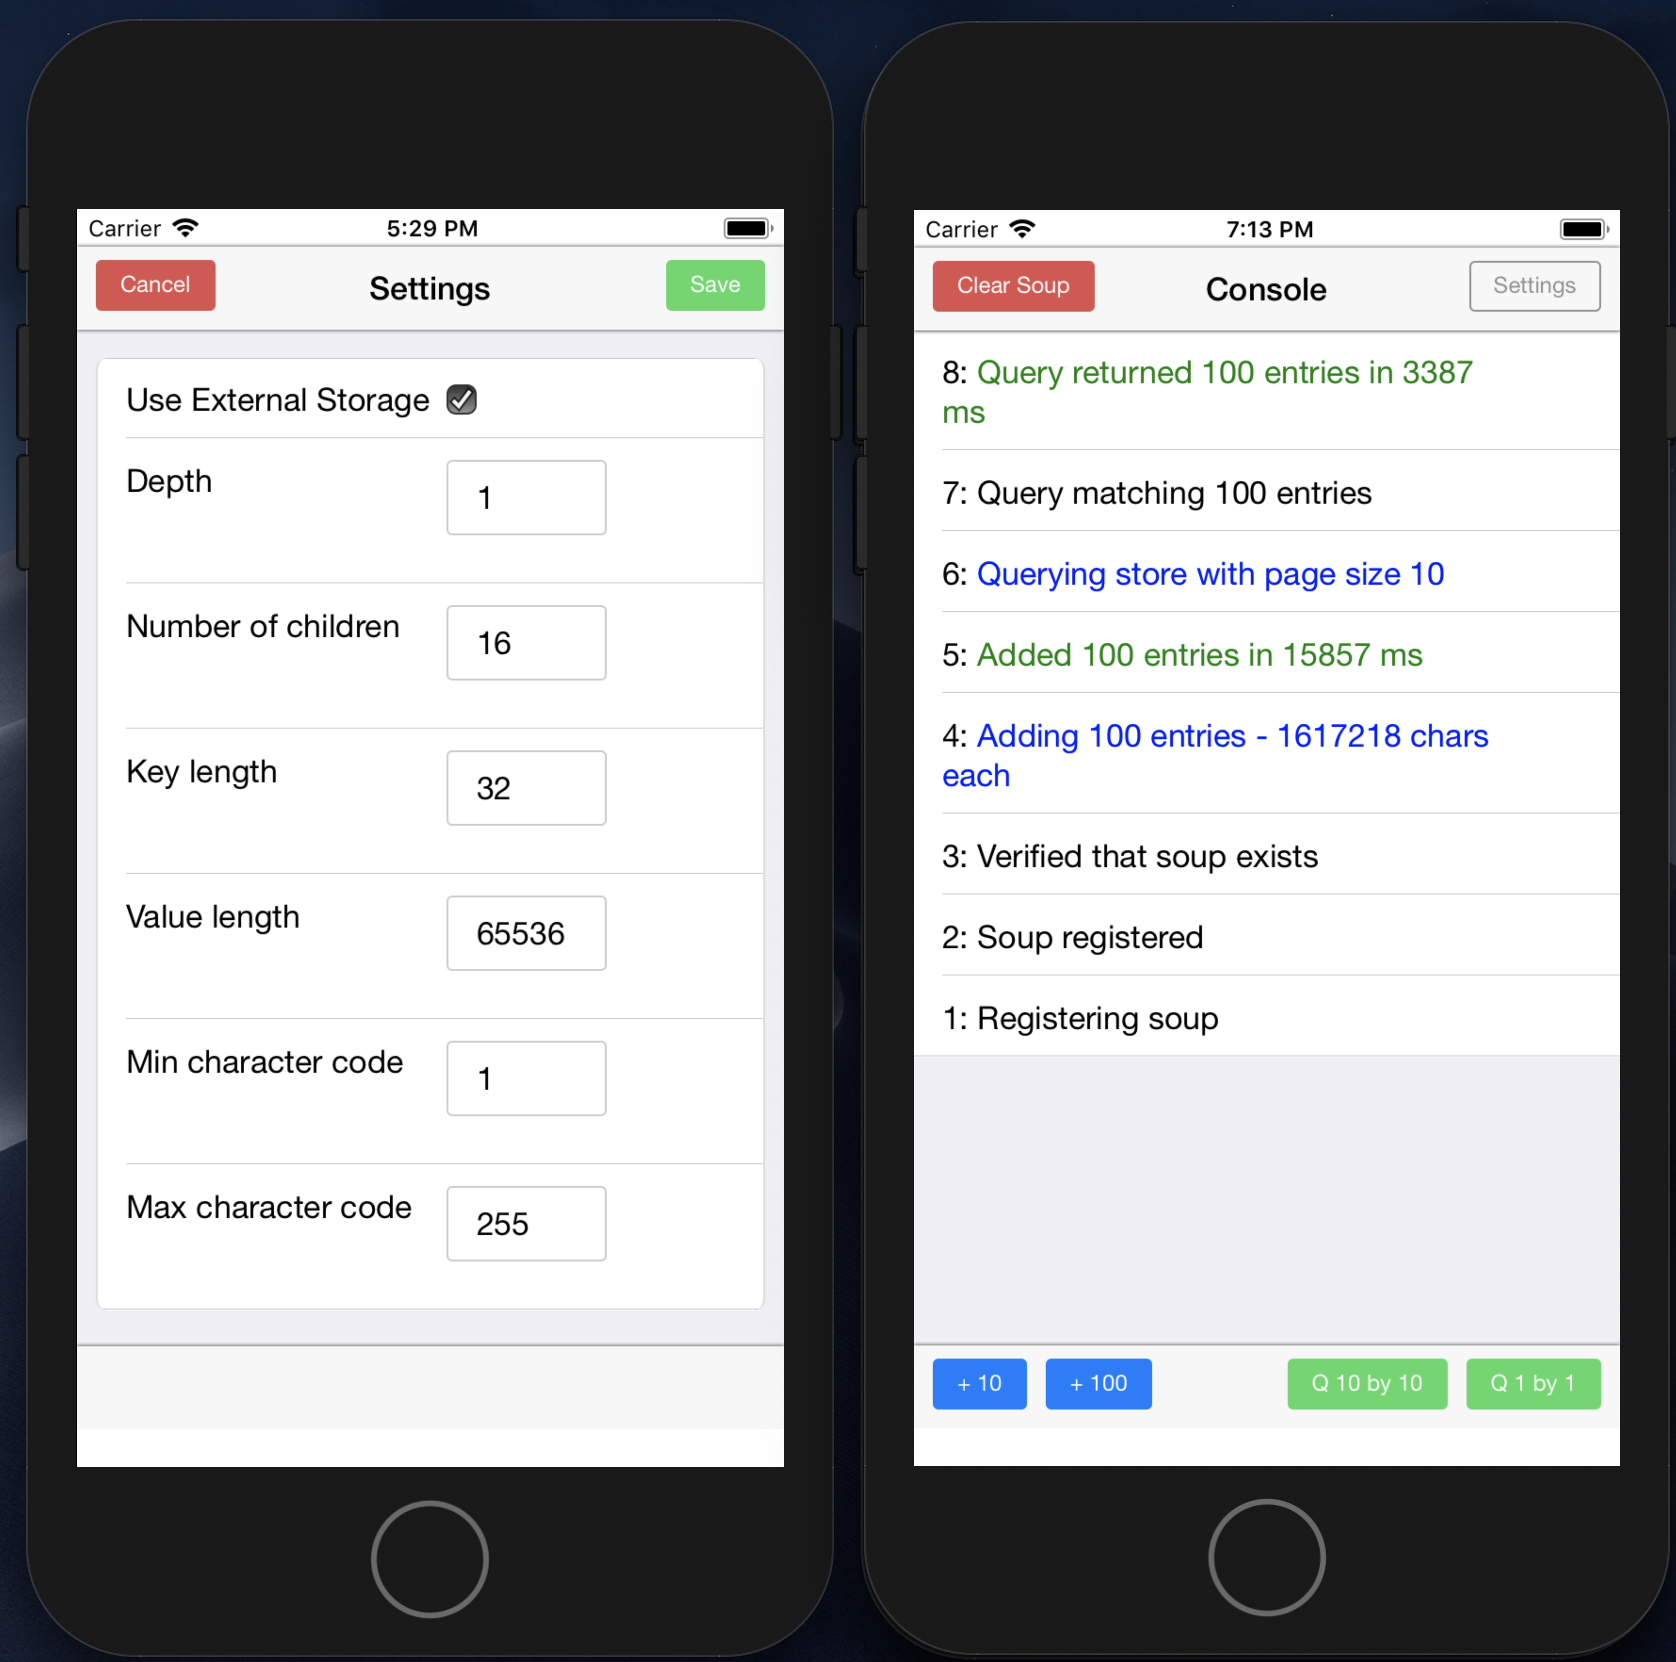
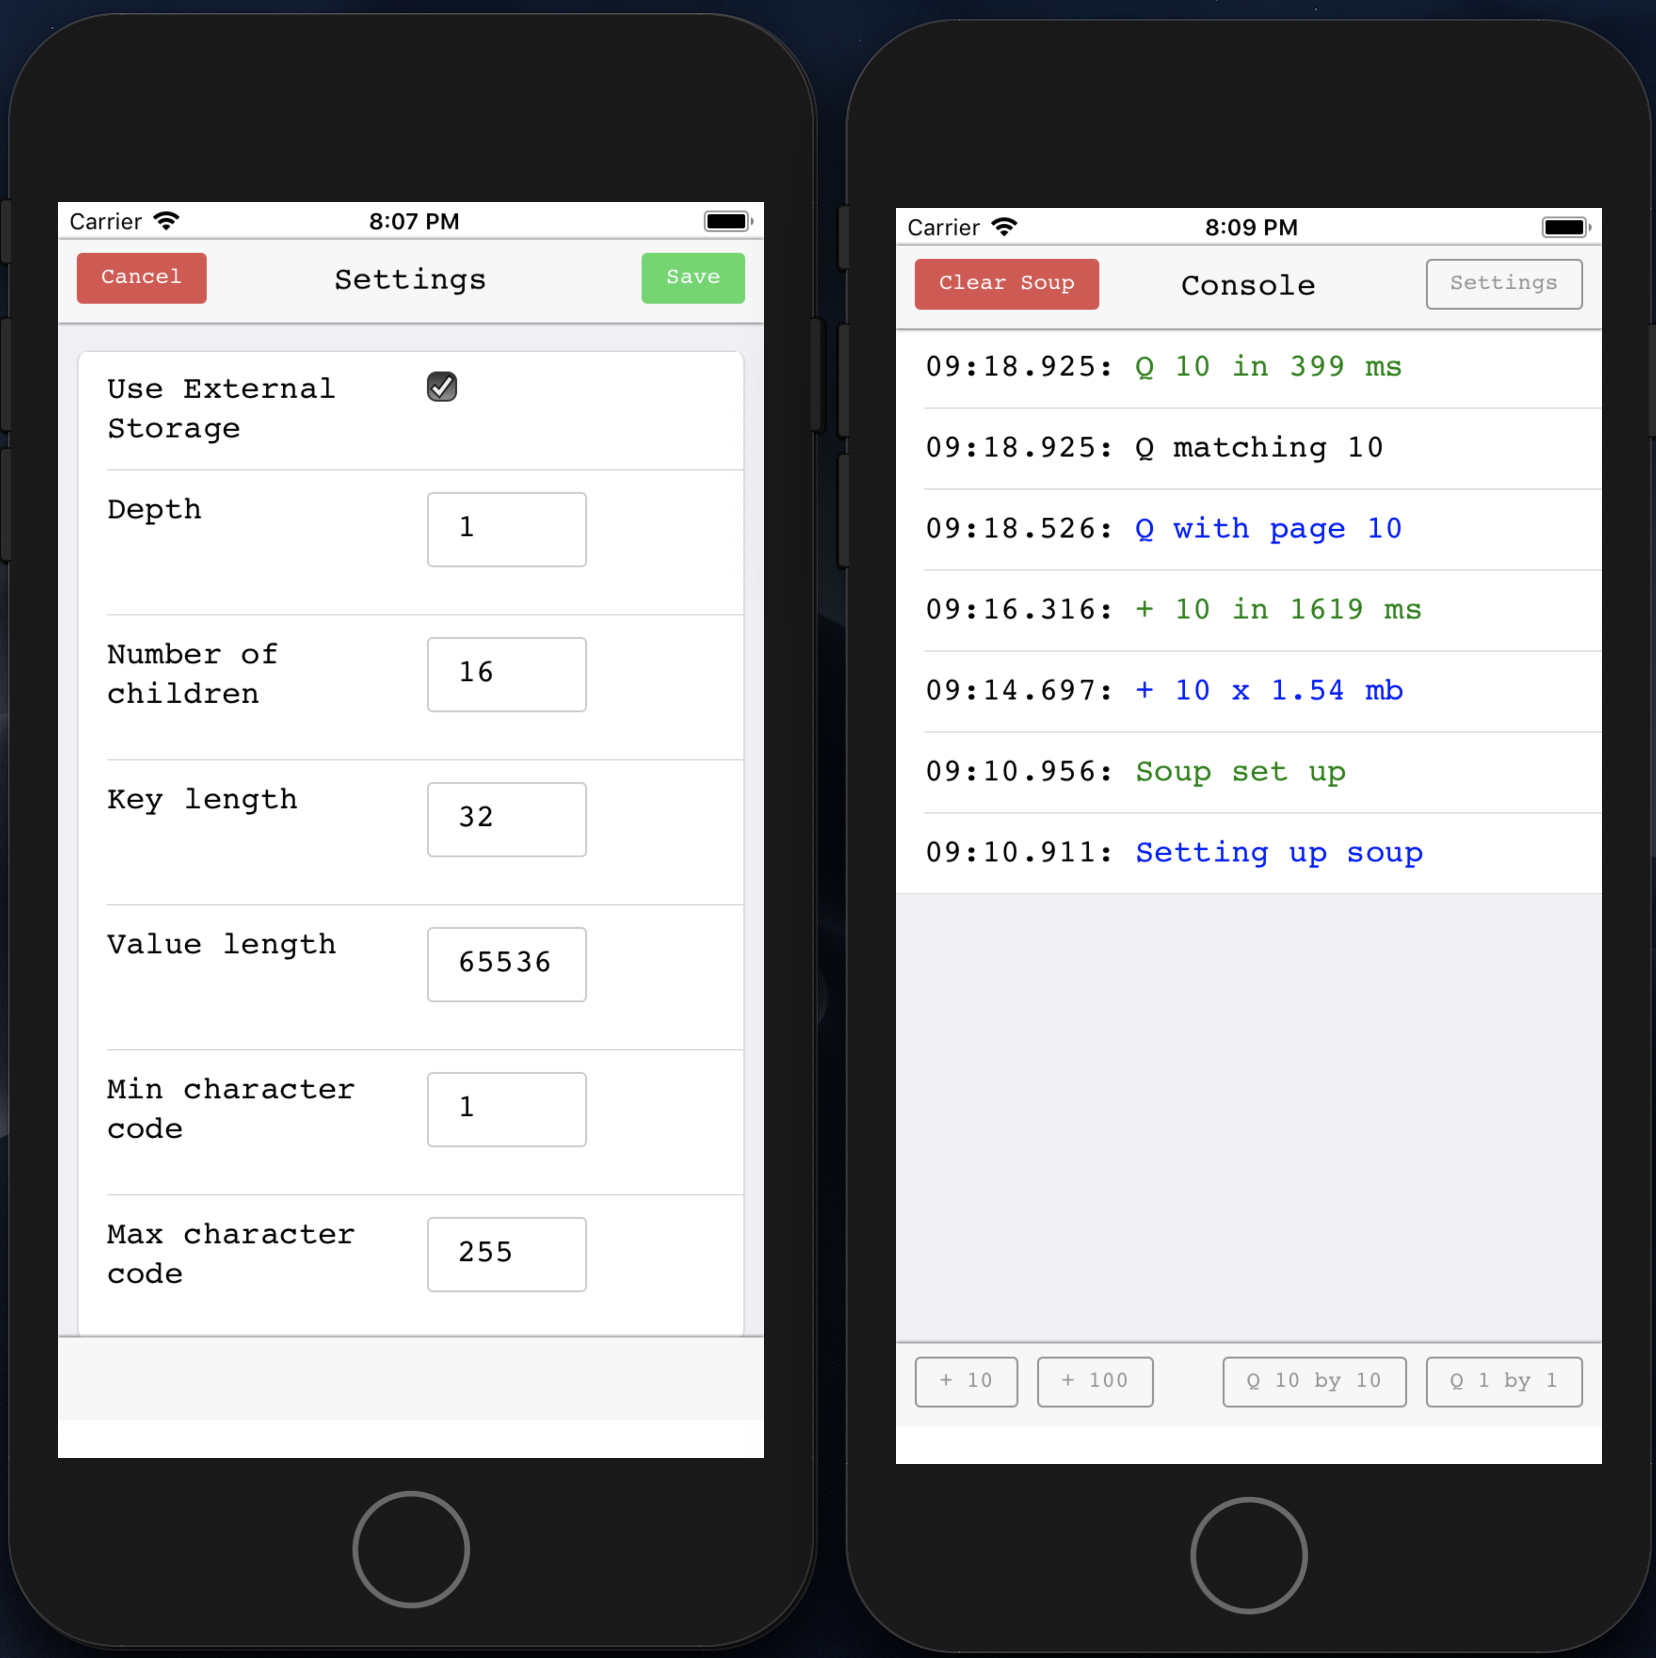
Refining look / updating README

diff --git a/www/app.js b/www/app.js
@@ -18,27 +18,22 @@ var settings = {
 
 // Global variable
 var storeClient
-var logLine = 1
 
 // Sets up soup
 // Drop soup if it already exists
 function setupSoup() {
+    log("Setting up soup", "blue")
     storeClient.removeSoup(STORE_CONFIG, SOUPNAME)
     .then(() => {
-          log("Registering soup")
           const soupSpec = {name: SOUPNAME, features: settings.useExternalStorage ? SOUP_FEATURES : []}
           return storeClient.registerSoupWithSpec(STORE_CONFIG, soupSpec, INDEX_SPECS)
       })
     .then(() => {
-        log("Soup registered")
+        log("Soup set up", "green")
         return storeClient.soupExists(STORE_CONFIG, SOUPNAME)
     })
     .then((exists) => {
-          if (exists) {
-            log("Verified that soup exists")
-          } else {
-            log("Soup does NOT exist", "red")
-          }
+          if (!exists) log("Soup creation failed", "red")
     })
 }
 
@@ -113,15 +108,32 @@ function onClear() {
         })
 }
 
+// Function returning rounded size in b, kb or mb
+function roundedSize(size) {
+    if (size < 1024) {
+        return size + " b"
+    } else if (size < 1024 * 1024) {
+        return Math.round(size*100 / 1024)/100 + " kb"
+    } else {
+        return Math.round(size*100 / 1024 / 1024)/100 + " mb"
+    }
+}
+     
+// Function returning approximate entry size as a string
+function getEntrySizeAsString() {
+    return roundedSize(JSON.stringify(generateEntry()).length)
+}
+
+
 // Function invoked when a btnInsert* button is pressed
 function onInsert(n, i, start, actuallyAdded) {
-    const entrySize = JSON.stringify(generateEntry()).length
+    const entrySize = getEntrySizeAsString()
     i = i || 0
     start = start || time()
     actuallyAdded = actuallyAdded || 0
 
     if (i == 0) {
-        log(`Adding ${n} entries - ${entrySize} chars each`, "blue")
+        log(`+ ${n} x ${entrySize}`, "blue")
     }
     
     if (i < n) {
@@ -131,17 +143,17 @@ function onInsert(n, i, start, actuallyAdded) {
     }
     else {
         const elapsedTime = time() - start
-        log(`Added ${actuallyAdded} entries in ${elapsedTime} ms`, "green")
+        log(`+ ${actuallyAdded} in ${elapsedTime} ms`, "green")
     }
 }
 
 // Function invoked when a btnQueryAll* button is pressed
 function onQueryAll(pageSize) {
     var start = time()
-    log(`Querying store with page size ${pageSize}`, "blue")
+    log(`Q with page ${pageSize}`, "blue")
     storeClient.querySoup(STORE_CONFIG, SOUPNAME, {queryType: "range", path:"key", soupName:SOUPNAME, pageSize:pageSize})
         .then(cursor => {
-            log(`Query matching ${cursor.totalEntries} entries`)
+            log(`Q matching ${cursor.totalEntries}`)
             return traverseResultSet(cursor, cursor.currentPageOrderedEntries.length, start)
         })
 }
@@ -155,7 +167,7 @@ function traverseResultSet(cursor, countSeenSoFar, start) {
             })
     } else {
         const elapsedTime = time() - start
-        log(`Query returned ${countSeenSoFar} entries in ${elapsedTime} ms`, "green")
+        log(`Q ${countSeenSoFar} in ${elapsedTime} ms`, "green")
     }
 }
 
@@ -163,10 +175,11 @@ function traverseResultSet(cursor, countSeenSoFar, start) {
 // @param msg to write out
 // @param color (optional)
 function log(msg, color) {
+    var d = new Date()
+    var prefix = new Date().toISOString().slice(14, 23)
     msg = color ? msg.fontcolor(color) : msg
-    document.querySelector('#ulConsole').innerHTML = `<li class="table-view-cell"><div class="media-body">${logLine}: ${msg}</div></li>`
+    document.querySelector('#ulConsole').innerHTML = `<li class="table-view-cell"><div class="media-body">${prefix}: ${msg}</div></li>`
         + document.querySelector('#ulConsole').innerHTML
-    logLine++
 }
 
 // Helper function to generate entry

diff --git a/www/index.html b/www/index.html
@@ -23,6 +23,11 @@
             float: left;
             width: 10em;
         }
+    
+        html *
+        {
+           font-family: Courier !important;
+        }
     </style>
    <script src="cordova.js"></script>
    <script src="force.js"></script>
@@ -81,10 +86,10 @@
         
     <!-- Bottom bar -->
     <nav class="bar bar-footer">
-      <button class="btn btn-primary pull-left" id="btnInsert10">+ 10</button>
-      <button class="btn btn-primary pull-left" id="btnInsert100">+ 100</button>
-      <button class="btn btn-positive pull-right" id="btnQueryAll1By1">Q 1 by 1</button>
-      <button class="btn btn-positive pull-right" id="btnQueryAll10By10">Q 10 by 10</button>
+      <button class="btn pull-left" id="btnInsert10">+ 10</button>
+      <button class="btn pull-left" id="btnInsert100">+ 100</button>
+      <button class="btn pull-right" id="btnQueryAll1By1">Q 1 by 1</button>
+      <button class="btn pull-right" id="btnQueryAll10By10">Q 10 by 10</button>
     </nav>
 </body>
 </html>

diff --git a/README.md b/README.md
@@ -6,12 +6,12 @@
 
 ### Settings screen
 Through the settings screen one can control the shape of the records and whether to use external storage or not:
-- use external storage: whether to use external storage or not
-- depth: depth of json objects
-- number of children: number of branches at each level of the json object
-- key length: length of keys in json object
-- value length: length of leaf values in json object
-- min/max character code: smallest/largest character code to use in random strings generated for keys and leaf value
+- use external storage: whether to use external storage or not.
+- depth: depth of json objects.
+- number of children: number of branches at each level of the json object.
+- key length: length of keys in json object.
+- value length: length of leaf values in json object.
+- min/max character code: smallest/largest character code to use in random strings generated for keys and leaf value.
 
 Actions:
 - save: to update settings and go to console screen. If you change the storage type, the soup gets recreated.
@@ -21,15 +21,15 @@ Actions:
 Through the console screen, insert and query records from smartstore.
 
 Actions:
-- settings: bring up Settings screen
-- clear soup: to empty the soup
-- +10, +100: to insert 10 or 100 large records. The size of records inserted (and the time it took are reported)
-- Q 1 by 1, Q 10 by 10: to query all records from the soup with a page size of 1 and 10 respectively. The number of records founds / expected (and the time it took) are reported.
+- settings: bring up Settings screen.
+- clear soup: to empty the soup.
+- +10, +100: to insert 10 or 100 large records. The size of records inserted (and the time it took are reported).
+- Q 1 by 1, Q 10 by 10: to query all records from the soup with a page size of 1 and 10 respectively. The number of records founds / expected (and the time it took) are reported..
 
 Screen shows ouput for most recent operation first:
-- Blue is for the beginning of a add/query operation
-- Green is for the end of a add/query operation
-- Red is for window.onerror messages
+- Blue is for the beginning of an operation.
+- Green is for the end of an operation.
+- Red is for errors.
 
 ## Issues discovered
 - Bug in `saveSoupEntryExternally` (see https://github.com/forcedotcom/SalesforceMobileSDK-iOS/pull/2982 for details)
